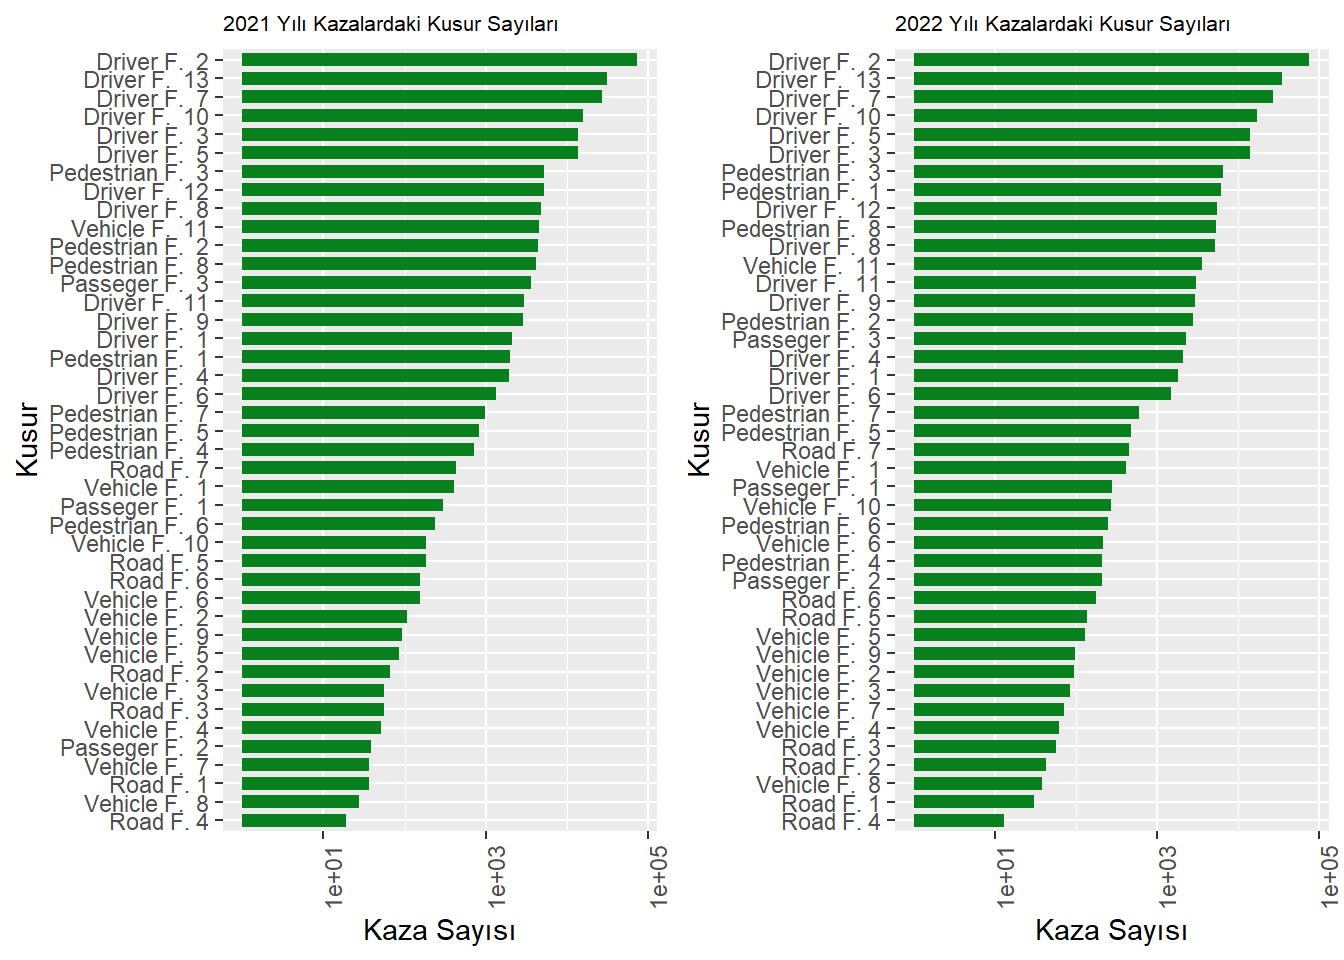
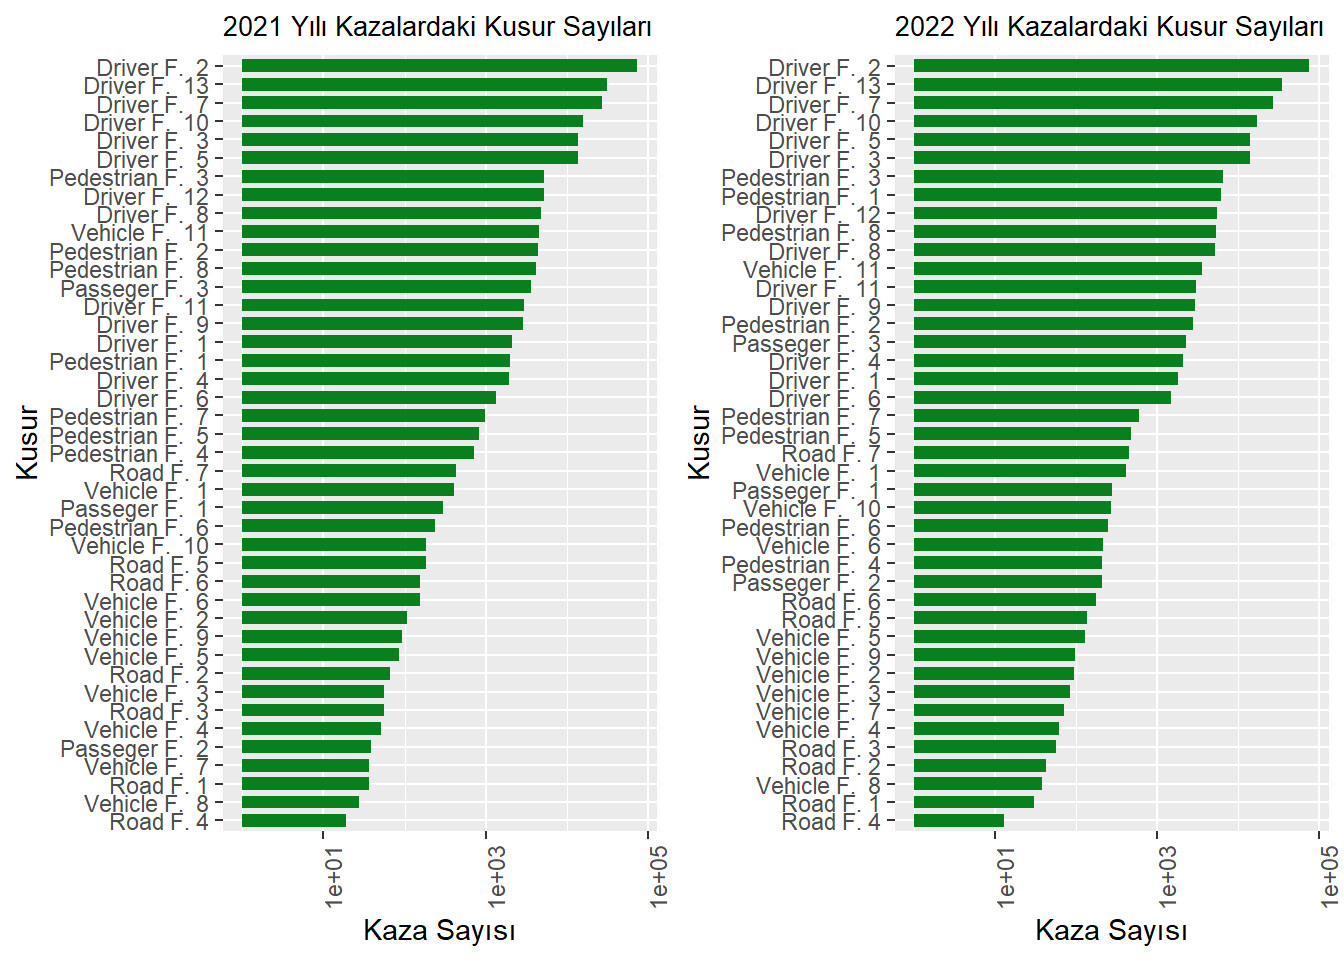
Güncelleme
Güncelleme yaptım.

diff --git a/docs/proje.html b/docs/proje.html
@@ -243,7 +243,7 @@ pre > code.sourceCode > span > a:first-child::before { text-decoration: underlin
 </section>
 <section id="analiz-sonuçları" class="level2" data-number="3.3">
 <h2 data-number="3.3" class="anchored" data-anchor-id="analiz-sonuçları"><span class="header-section-number">3.3</span> Analiz Sonuçları</h2>
-<p><strong>2009-2022 Yıllarına Ait Trafiğe Kayıtlı Toplam Araç:</strong></p>
+<p><strong>Grafik 1: 2009-2022 Yıllarına Ait Trafiğe Kayıtlı Toplam Araç Sayısı</strong></p>
 <div class="cell">
 <details>
 <summary>Kodu görüntüle</summary>
@@ -343,12 +343,12 @@ pre > code.sourceCode > span > a:first-child::before { text-decoration: underlin
 <p><img src="proje_files/figure-html/unnamed-chunk-1-1.png" class="img-fluid" width="672"></p>
 </div>
 </div>
-<p><strong>2009-2022 Yıllarında Trafiğe Kayıtlı Araç Sayısı:</strong></p>
 <p>Türkiyenin hızlı nüfus artışı ve kentsel bölgelerdeki büyüme, daha fazla bireyin özel araçlara ihtiyaç duymasına yol açmıştır. Artık kentsel alanlarda yaşayan insanlar, işe ulaşım, alışveriş ve diğer günlük ihtiyaçlar için kişisel taşıtlarını tercih etmektedir.</p>
 <p>Türkiye ekonomisinin büyümesindeki artış hane hallklarının gelirlerinde de artışa neden olmuştur, bu da fazla kişinin araç satın almasına olanak sağlamıştır.</p>
 <p>Türkiye’deki karayolu altyapısının gelişimi, özellikle otoyollar ve köprüler, özel araç kullanımını daha cazip hale getirmiştir. İyi altyapı, araç kullanımını daha verimli ve konforlu hale getirerek, araç sahipliğini teşvik etmiştir.</p>
 <p>Bazı bölgelerde toplu taşıma sistemlerinin yetersiz kalması veya erişilebilir olmaması, insanları kendi araçlarını almaya yönlendirmiştir. Toplu taşıma seçeneklerinin sınırlı olduğu şehir ve kasabalarda, bireyler günlük ulaşım ihtiyaçlarını karşılamak için özel araçlara daha fazla bağımlı hale gelmişlerdir.</p>
 <p>Bankalar ve finans kuruluşları tarafından sunulan uygun kredi imkanları ve araç finansman seçenekleri, daha fazla insanın araba sahibi olmasını kolaylaştırmıştır. Özellikle düşük faiz oranları, araç alımlarını daha erişilebilir hale getirmiştir.</p>
+<p><strong>Grafik 2: Kazaların 2009-2022 Yıllarına Göre Değişimi</strong></p>
 <div class="cell">
 <details>
 <summary>Kodu görüntüle</summary>
@@ -365,10 +365,10 @@ pre > code.sourceCode > span > a:first-child::before { text-decoration: underlin
 <p><img src="proje_files/figure-html/unnamed-chunk-2-1.png" class="img-fluid" width="672"></p>
 </div>
 </div>
-<p><strong>Kazaların 2009-2022 Yıllarına Göre Değişimi:</strong></p>
 <p>Grafiğe bakıldığında, 2020 yılında toplam kaza sayısında belirgin bir düşüş görülmektedir. Bu düşüşün başlıca sebepleri&nbsp; arasında COVİD-19 pandemisi bulunmaktadır.2020 yılı, dünya genelinde COVID-19 pandemisinin etkili olduğu bir yıl olmuştur. Türkiye dahil birçok ülkede karantina tedbirleri, sokağa çıkma yasakları ve sosyal mesafe kuralları uygulanmıştır. Bu durum, insanların evden çıkmalarını ve dolayısıyla trafikteki araç sayısını önemli ölçüde azaltmıştır. Azalan trafik, doğal olarak kaza sayılarında da bir düşüşe yol açmıştır.</p>
 <p>Bir diğer sebep ise seyahat kısıtlamalarıdır. Pandemi nedeniyle uygulanan seyahat kısıtlamaları ve turizmdeki düşüş, özellikle turistik bölgelerde ve şehirlerarası yollarda trafik yoğunluğunun azalmasına neden olmuştur. Bu da kaza oranlarını düşüren bir diğer faktör olarak görülebilir.</p>
 <p>Pandemi sırasında birçok işyeri uzaktan çalışmaya geçiş yapmıştır. Aynı şekilde, eğitim kurumları da uzaktan eğitime yönelik adımlar atmıştır. Bu değişiklikler, işe veya okula gidip gelmek için yapılan günlük seyahatleri azaltmış, bu da yollardaki araç sayısının ve potansiyel kaza sayısının azalmasına katkıda bulunmuştur.</p>
+<p><strong>Grafik 3: Bölgesel Kazaların 2021-2022 Yıllarına Göre Değişimi</strong></p>
 <div class="cell">
 <details>
 <summary>Kodu görüntüle</summary>
@@ -405,12 +405,12 @@ pre > code.sourceCode > span > a:first-child::before { text-decoration: underlin
 <p><img src="proje_files/figure-html/unnamed-chunk-3-1.png" class="img-fluid" width="672"></p>
 </div>
 </div>
-<p><strong>Bölgesel Kazaların 2021-2022 Yıllarına Göre Değişimi:</strong></p>
 <p>Grafikte, Türkiye’nin çeşitli bölgelerinde 2021 ve 2022 yıllarına ait kaza oranlarının karşılaştırması görülmektedir.</p>
 <p>Bazı bölgelerde, özellikle büyük şehirlerde veya turistik bölgelerde trafik yoğunluğunun mevsimsel veya ekonomik etkenlere bağlı olarak değişmesi kaza oranları üzerinde etkili olabilir. Örneğin, turizm sezonunda Ege veya Akdeniz bölgelerindeki trafik artışı kaza oranlarını yükseltebilir.</p>
 <p>2021 ile 2022 arasında yapılan yol yapım ve bakım çalışmaları, bazı bölgelerde kaza oranlarını düşürebilir. Özellikle büyük şehirlerde veya trafik akışının yoğun olduğu ana arterlerde altyapı iyileştirmeleri, trafik güvenliğini artırabilir.</p>
 <p>Trafikle ilgili yasaların veya yönetmeliklerin güncellenmesi, sürücülerin davranışlarını etkileyerek kaza oranları üzerinde değişikliklere neden olabilir. Hız limitlerinin değiştirilmesi, alkol veya uyuşturucu testlerinin sıklaştırılması gibi faktörler kaza oranlarını etkileyebilir.</p>
 <p>Ekonomik durumun kötüleşmesi veya iyileşmesi, araç kullanım sıklığını ve dolayısıyla kaza oranlarını etkileyebilir. Ekonomik durgunluk dönemlerinde insanlar daha az seyahat edebilir veya eski, daha az güvenli araçları kullanmaya devam edebilir.</p>
+<p><strong>Grafik 4: Trafik Kazalarına Sebep Olan Kusurların 2021-2022 Yıllarına Göre Değişimi</strong></p>
 <div class="cell">
 <details>
 <summary>Kodu görüntüle</summary>
@@ -422,13 +422,13 @@ pre > code.sourceCode > span > a:first-child::before { text-decoration: underlin
 <span id="cb6-6"><a href="#cb6-6" aria-hidden="true" tabindex="-1"></a><span class="co"># Bar Plot - 2021-2022 Yıllarına Göre Kusurların Değişimi</span></span>
 <span id="cb6-7"><a href="#cb6-7" aria-hidden="true" tabindex="-1"></a>p1 <span class="ot">&lt;-</span> <span class="fu">ggplot</span>(kusurlar_2021, <span class="fu">aes</span>(<span class="at">x =</span> Total, <span class="at">y =</span> Fault.Number)) <span class="sc">+</span></span>
 <span id="cb6-8"><a href="#cb6-8" aria-hidden="true" tabindex="-1"></a>  <span class="fu">geom_bar</span>(<span class="at">stat =</span> <span class="st">"identity"</span>, <span class="at">position =</span> <span class="fu">position_dodge</span>(), <span class="at">width =</span> <span class="fl">0.7</span>, <span class="at">fill =</span> <span class="st">"#09801E"</span>) <span class="sc">+</span> </span>
-<span id="cb6-9"><a href="#cb6-9" aria-hidden="true" tabindex="-1"></a>  <span class="fu">theme</span>(<span class="at">plot.title =</span> <span class="fu">element_text</span>(<span class="at">size=</span><span class="dv">8</span>), <span class="at">axis.text.x =</span> <span class="fu">element_text</span>(<span class="at">angle =</span> <span class="dv">90</span>, <span class="at">hjust =</span> <span class="fl">0.5</span>)) <span class="sc">+</span> <span class="fu">scale_x_log10</span>() <span class="sc">+</span> </span>
+<span id="cb6-9"><a href="#cb6-9" aria-hidden="true" tabindex="-1"></a>  <span class="fu">theme</span>(<span class="at">plot.title =</span> <span class="fu">element_text</span>(<span class="at">size=</span><span class="dv">10</span>), <span class="at">axis.text.x =</span> <span class="fu">element_text</span>(<span class="at">angle =</span> <span class="dv">90</span>, <span class="at">hjust =</span> <span class="fl">0.5</span>)) <span class="sc">+</span> <span class="fu">scale_x_log10</span>() <span class="sc">+</span> </span>
 <span id="cb6-10"><a href="#cb6-10" aria-hidden="true" tabindex="-1"></a>  <span class="fu">labs</span>(<span class="at">title =</span> <span class="st">"2021 Yılı Kazalardaki Kusur Sayıları"</span>, </span>
 <span id="cb6-11"><a href="#cb6-11" aria-hidden="true" tabindex="-1"></a>        <span class="at">x =</span> <span class="st">"Kaza Sayısı"</span>, <span class="at">y =</span> <span class="st">"Kusur"</span>)</span>
 <span id="cb6-12"><a href="#cb6-12" aria-hidden="true" tabindex="-1"></a></span>
 <span id="cb6-13"><a href="#cb6-13" aria-hidden="true" tabindex="-1"></a>p2 <span class="ot">&lt;-</span> <span class="fu">ggplot</span>(kusurlar_2022, <span class="fu">aes</span>(<span class="at">x =</span> Total, <span class="at">y =</span> Fault.Number)) <span class="sc">+</span></span>
 <span id="cb6-14"><a href="#cb6-14" aria-hidden="true" tabindex="-1"></a>  <span class="fu">geom_bar</span>(<span class="at">stat =</span> <span class="st">"identity"</span>, <span class="at">position =</span> <span class="fu">position_dodge</span>(), <span class="at">width =</span> <span class="fl">0.7</span>, <span class="at">fill =</span> <span class="st">"#09801E"</span>) <span class="sc">+</span> </span>
-<span id="cb6-15"><a href="#cb6-15" aria-hidden="true" tabindex="-1"></a>  <span class="fu">theme</span>(<span class="at">plot.title =</span> <span class="fu">element_text</span>(<span class="at">size=</span><span class="dv">8</span>), <span class="at">axis.text.x =</span> <span class="fu">element_text</span>(<span class="at">angle =</span> <span class="dv">90</span>, <span class="at">hjust =</span> <span class="fl">0.5</span>)) <span class="sc">+</span> <span class="fu">scale_x_log10</span>() <span class="sc">+</span> </span>
+<span id="cb6-15"><a href="#cb6-15" aria-hidden="true" tabindex="-1"></a>  <span class="fu">theme</span>(<span class="at">plot.title =</span> <span class="fu">element_text</span>(<span class="at">size=</span><span class="dv">10</span>), <span class="at">axis.text.x =</span> <span class="fu">element_text</span>(<span class="at">angle =</span> <span class="dv">90</span>, <span class="at">hjust =</span> <span class="fl">0.5</span>)) <span class="sc">+</span> <span class="fu">scale_x_log10</span>() <span class="sc">+</span> </span>
 <span id="cb6-16"><a href="#cb6-16" aria-hidden="true" tabindex="-1"></a>  <span class="fu">labs</span>(<span class="at">title =</span> <span class="st">"2022 Yılı Kazalardaki Kusur Sayıları"</span>, </span>
 <span id="cb6-17"><a href="#cb6-17" aria-hidden="true" tabindex="-1"></a>       <span class="at">x =</span> <span class="st">"Kaza Sayısı"</span>, <span class="at">y =</span> <span class="st">"Kusur"</span>)</span>
 <span id="cb6-18"><a href="#cb6-18" aria-hidden="true" tabindex="-1"></a></span>
@@ -438,10 +438,9 @@ pre > code.sourceCode > span > a:first-child::before { text-decoration: underlin
 <p><img src="proje_files/figure-html/unnamed-chunk-4-1.png" class="img-fluid" width="672"></p>
 </div>
 </div>
-<p><strong>Trafik Kazalarına Sebep Olan Kusurların 2021-2022 Yıllarına Göre Değişimi:</strong></p>
 <p>Bu grafiklerde 2021 ve 2022 yıllarında Türkiye’deki trafik kazalarına sebep olan kusurların sayıları karşılaştırılmaktadır.</p>
 <p>Araç hızını yol, hava ve trafik koşullarına uygun ayarlamama kusuru her iki yıl içiçnde en sık rastlanan kusur olmuştur. Bu durum, sürücülerin hız limitlerine uymamasının yanı sıra, hava koşulları ve yol durumunu dikkate almadan sürüş yapmalarından kaynaklanabilir. Bu kusur, trafik kazalarının önemli bir kısmını oluşturur çünkü uygun olmayan hızlar, reaksiyon süresini azaltır ve kazaların daha şiddetli olmasına neden olur.</p>
-<p>Dönüş kuralllarına uymamma ve yol verme hataları gibi kusurlar genellikle kavşaklarda ve dönüş yapılırken görülür. . Sürücülerin dönüş kurallarına uymaması veya gerektiğinde yol vermemesi, özellikle yoğun trafikte çarpışmalara yol açar.</p>
+<p>Dönüş kuralllarına uymama ve yol verme hataları gibi kusurlar genellikle kavşaklarda ve dönüş yapılırken görülür. Sürücülerin dönüş kurallarına uymaması veya gerektiğinde yol vermemesi, özellikle yoğun trafikte çarpışmalara yol açar.</p>
 <p>Trafik ışıklarına ve dur işaretlerine uyulmaması, hem 2021 hem de 2022 yıllarında yaygın görülen bir kusur olmuş. Bu tür ihlaller, özellikle kavşaklarda ciddi kazalara neden olur.</p>
 <p>Sürücülerin şerit değiştirme kurallarına uymaması veya şerit izleme hataları, özellikle çok şeritli yollarda sıkça karşılaşılan bir problem. Bu durum, yanlış şerit değişimleri ve dolayısıyla yan çarpışmalara sebep olabilir.</p>
 <p>2021 ve 2022 yılları arasında çok büyük farklar olmasada 2022 yılında kazaların biraz daha azalmasının sebepleri; yeni trafik düzenlemeleri, farkındalık ve eğitim kampanyaları ve yeni ceza politikaları olabilir.</p>
